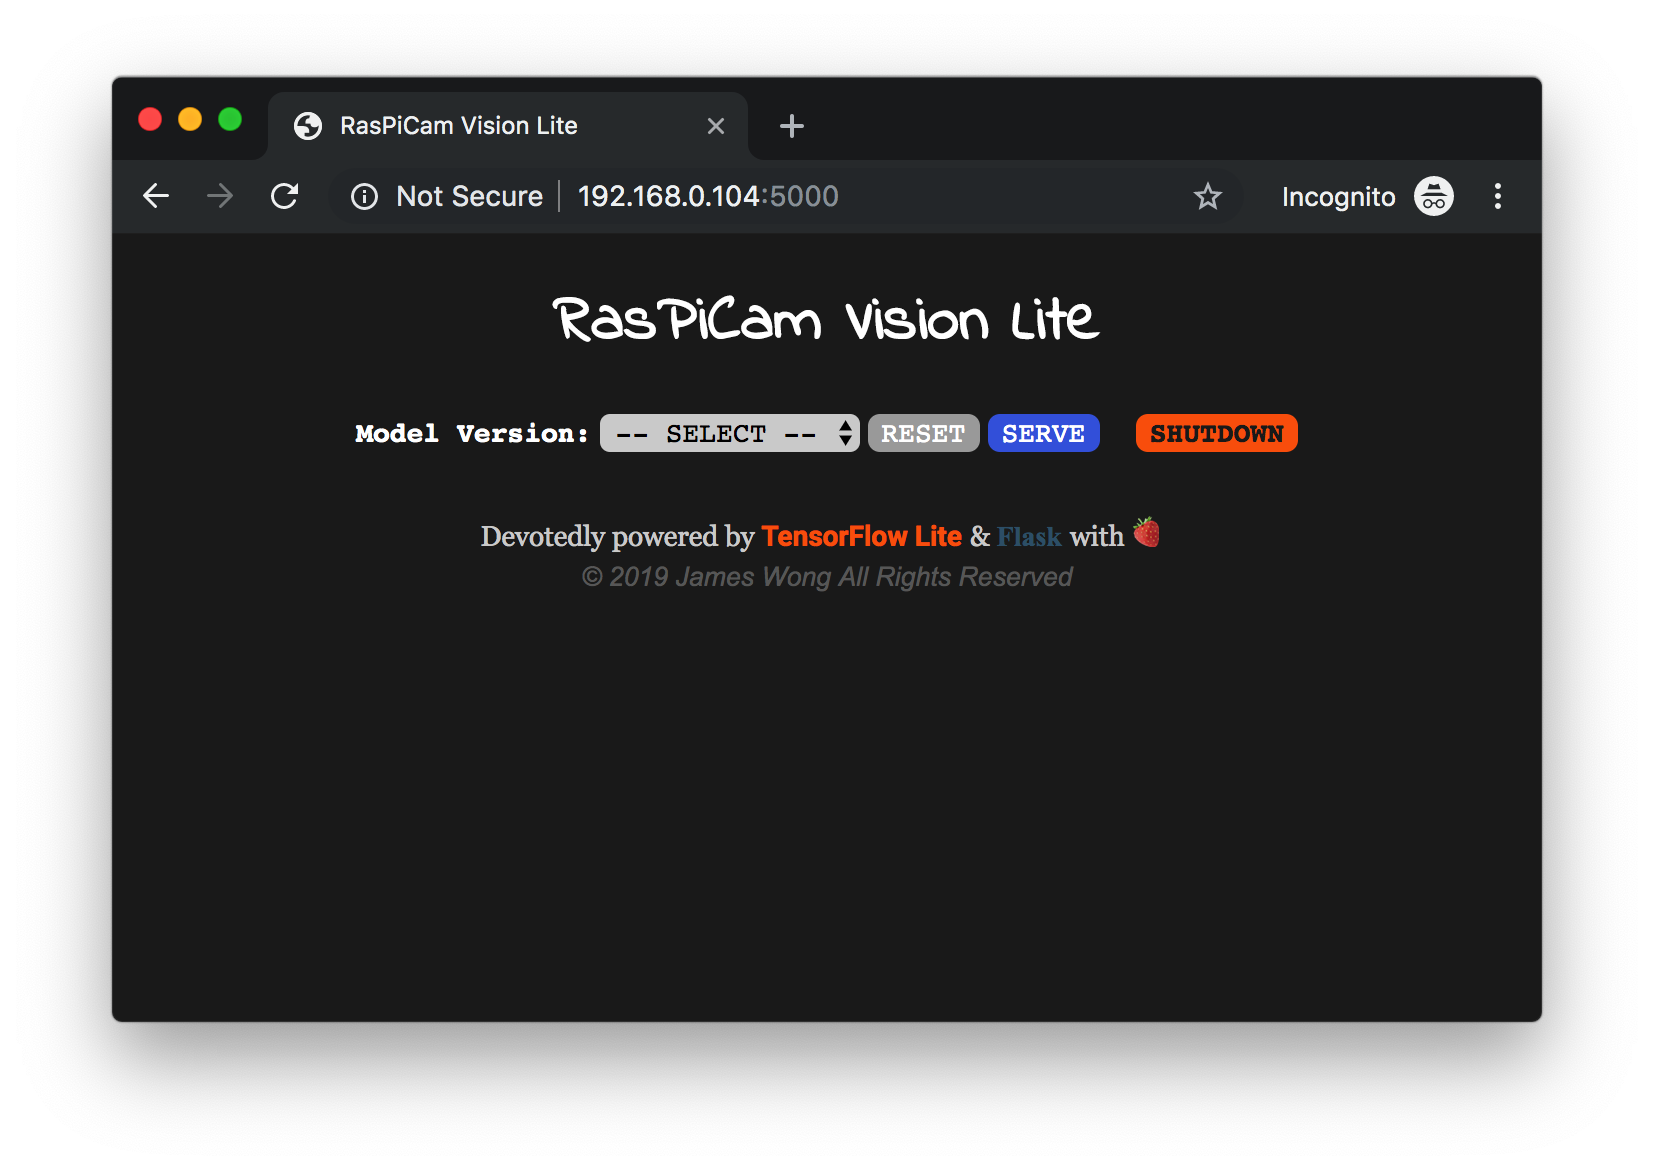
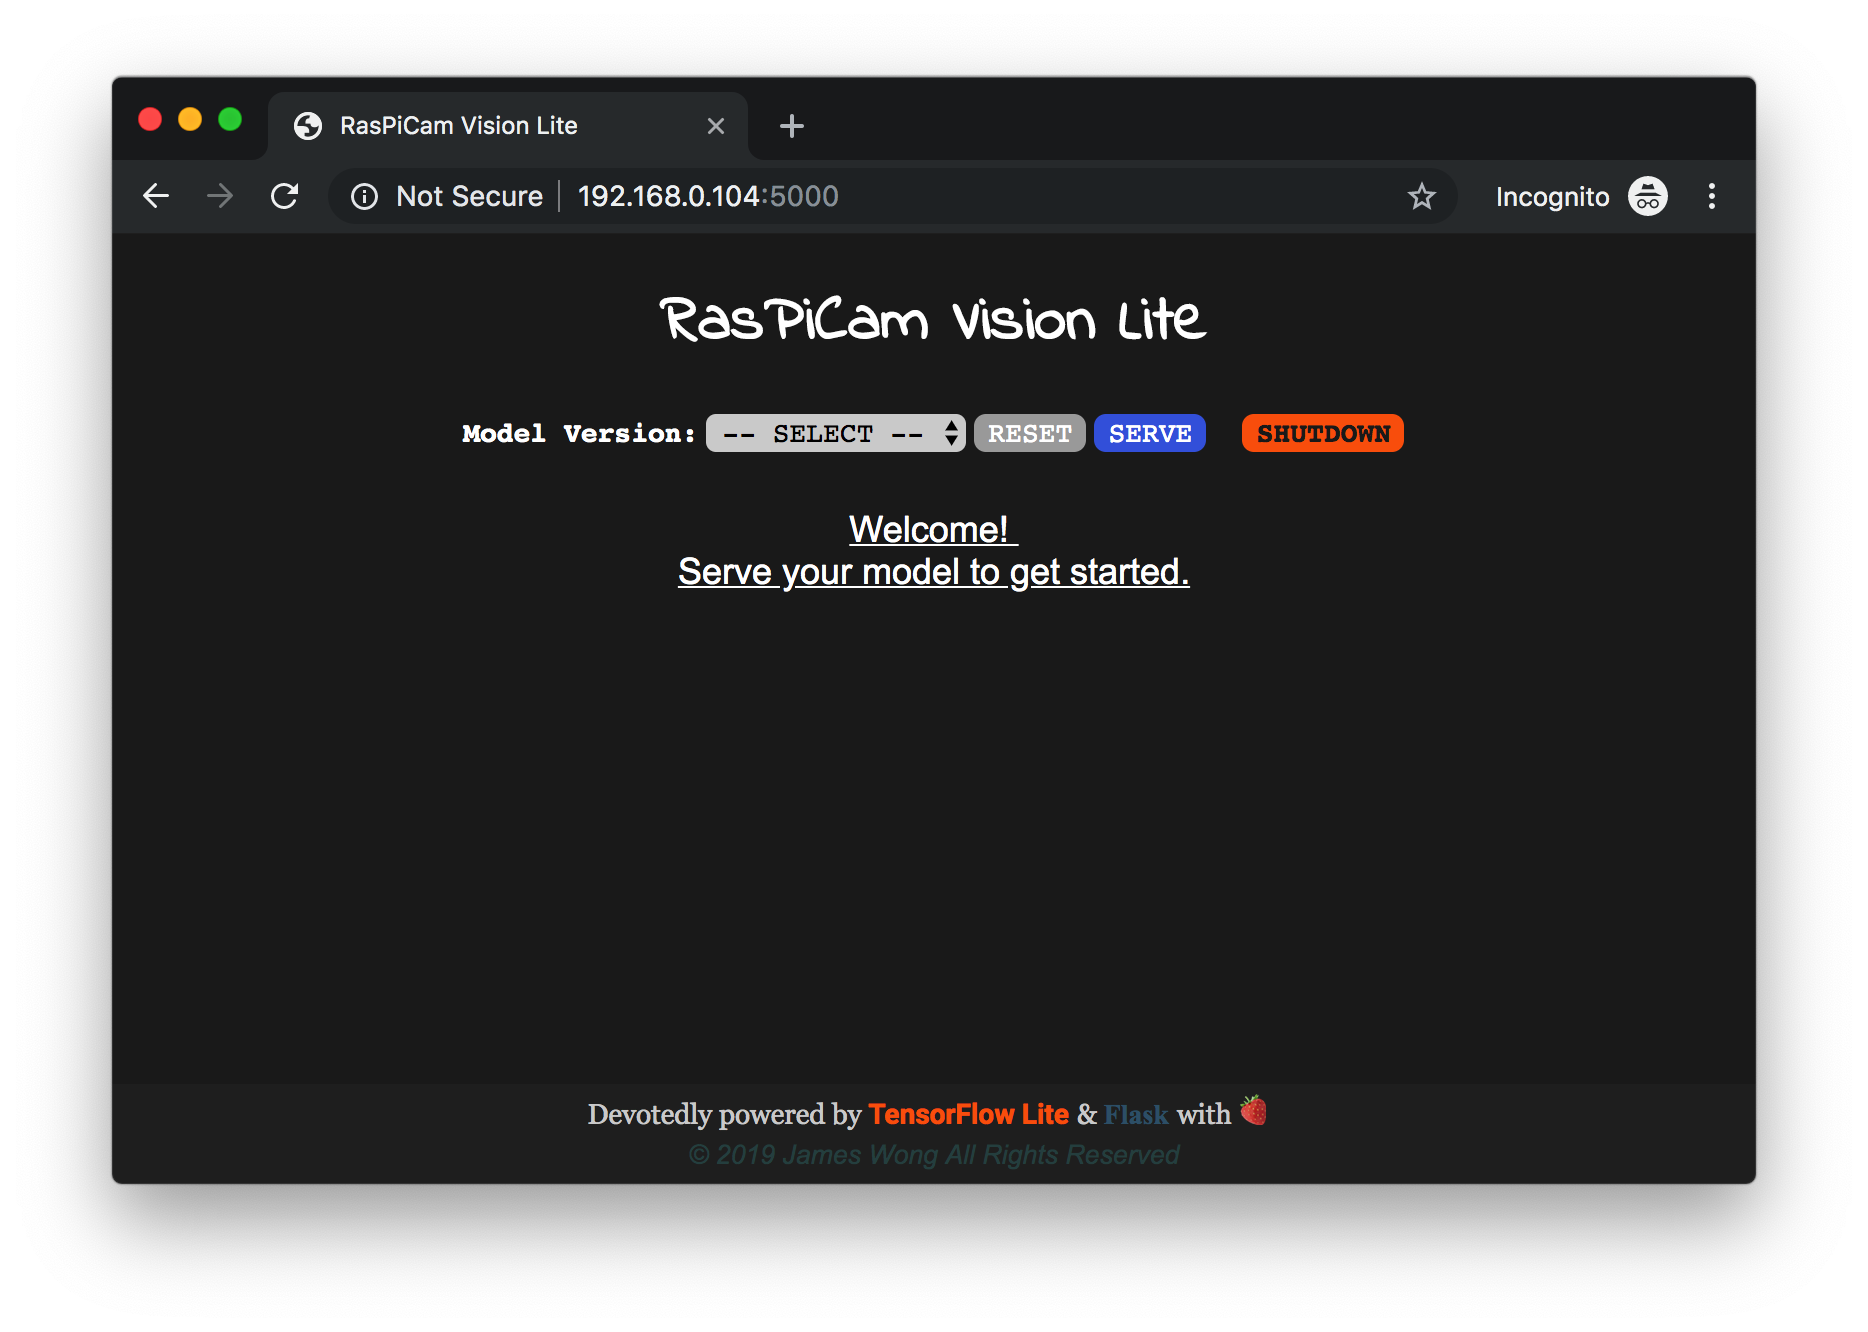
Fix floating footer

diff --git a/app/templates/index.html b/app/templates/index.html
@@ -7,13 +7,13 @@
     <title>RasPiCam Vision Lite </title>
 </head>
 
-<body style="background-color: #212121; margin: 10px; min-width:640px;" >
+<body style="background-color: #212121; margin: 0px; min-width:640px; height: 100%; padding: 0;" >
     
     <header>
         <link href='https://fonts.googleapis.com/css?family=Indie+Flower' rel='stylesheet' type='text/css'>
         <h1 align="center"><a style="font-family: 'Indie Flower'; font-size: 32px; color:white; inline-block; text-decoration: none;" target="_blank" rel="noopener noreferrer" href="https://github.com/jingw222/raspicam_vision_app">RasPiCam Vision Lite </a></h1>
     </header>
-
+        
     <div style="width:100%; height: 30px;" align="center">
         <form name="target" action="{{ url_for('index') }}" method='POST' style="display:inline-block;" >
             <label for="target" style="font-family: 'Courier'; font-size : 14px; font-weight:bold; color: white;">Model Version:</label>
@@ -46,7 +46,7 @@
 
         {% else %}
 
-        <p></p>
+        <p style="font-family: 'Arial'; font-size: 18px; color: white; text-decoration: underline">Welcome! <br>Serve your model to get started.</p>
 
         {% endif %}
     </div>
@@ -61,7 +61,7 @@
 </body>
 
 <div align="center">
-<footer style="position: relative; bottom: -10;" align="center">
+<footer style="background: #282828; width: 100%; height: 50px; position: absolute; bottom: 0; left: 0;" align="center">
     <div align="center">
         <p style="font-family: 'Georgia'; font-size : 14px; color:lightgrey; display: inline;">Devotedly powered by </p>
         <p style="display: inline;"><a style="font-family: 'Roboto'; font-weight:bold; color:#fc6408; display: inline; font-size: 14px; text-decoration: none;"
@@ -73,7 +73,7 @@
         <a style="text-decoration: none;" target="_blank" rel="noopener noreferrer" href="https://www.raspberrypi.org">&#x1F353</a>
     </div>
     <div align="center">
-    <small style="font-family: 'Arial'; font-style: oblique; color:dimgray;" align="center">&copy; 2019 James Wong All Rights Reserved </small>
+    <small style="font-family: 'Arial'; font-style: oblique; color: #2F4F4F;" align="center">&copy; 2019 James Wong All Rights Reserved </small>
     </div>
 </footer>
 </div>

diff --git a/README.md b/README.md
@@ -7,10 +7,27 @@ This project is a minimalistic [Flask](https://palletsprojects.com/p/flask) web 
 ## :strawberry:Overview
 
 
+
 ## :strawberry:Usage
 
 ## :strawberry:How It Works
 
 ## :strawberry:Dependencies
 
+Following configurations are fully tested. Some variations could also work, but no guarantee.
+
+**Hardwares**
+- Raspberry Pi 3 Model B+
+- Pi Camera Module V2
+
+**Softwares**
+- Python 3.5+
+- TensorFlow 2.0 
+- OpenCV 4.1
+- Flask 1.1.0
+- Picamera 1.13
+- Chrome 75, Safari 12
+
 ## :strawberry:License
+
+[MIT](https://github.com/jingw222/raspicam_vision_lite/blob/master/LICENSE)
